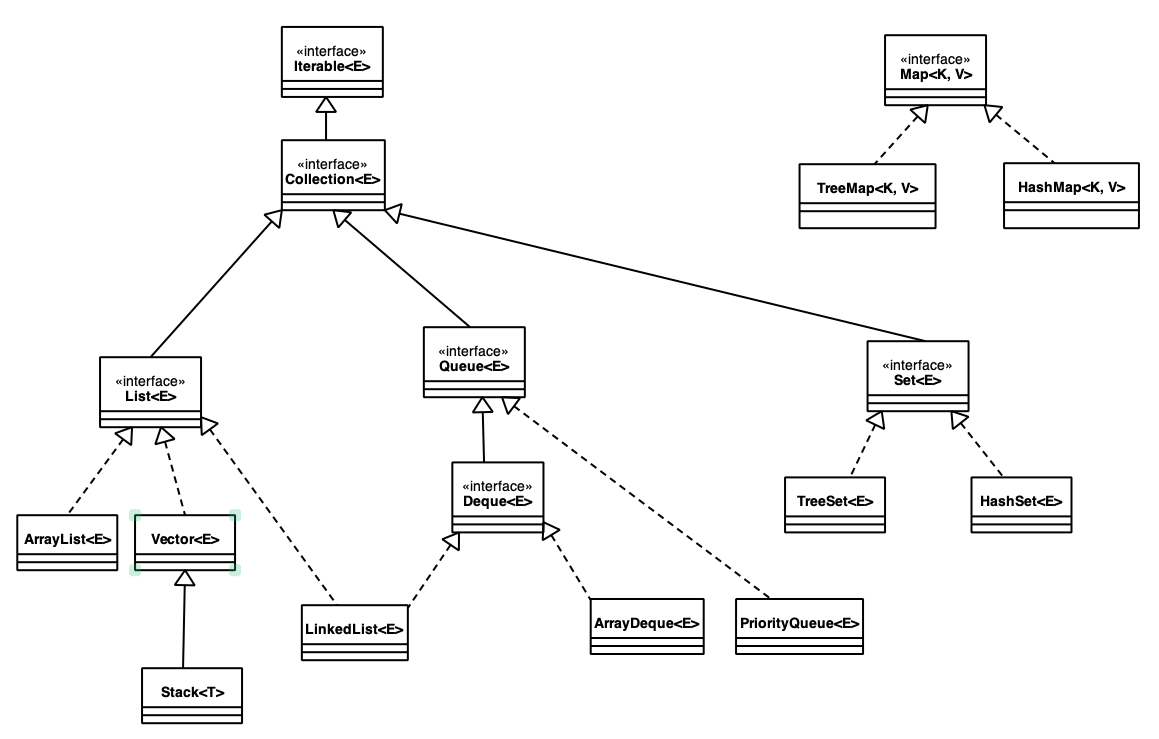
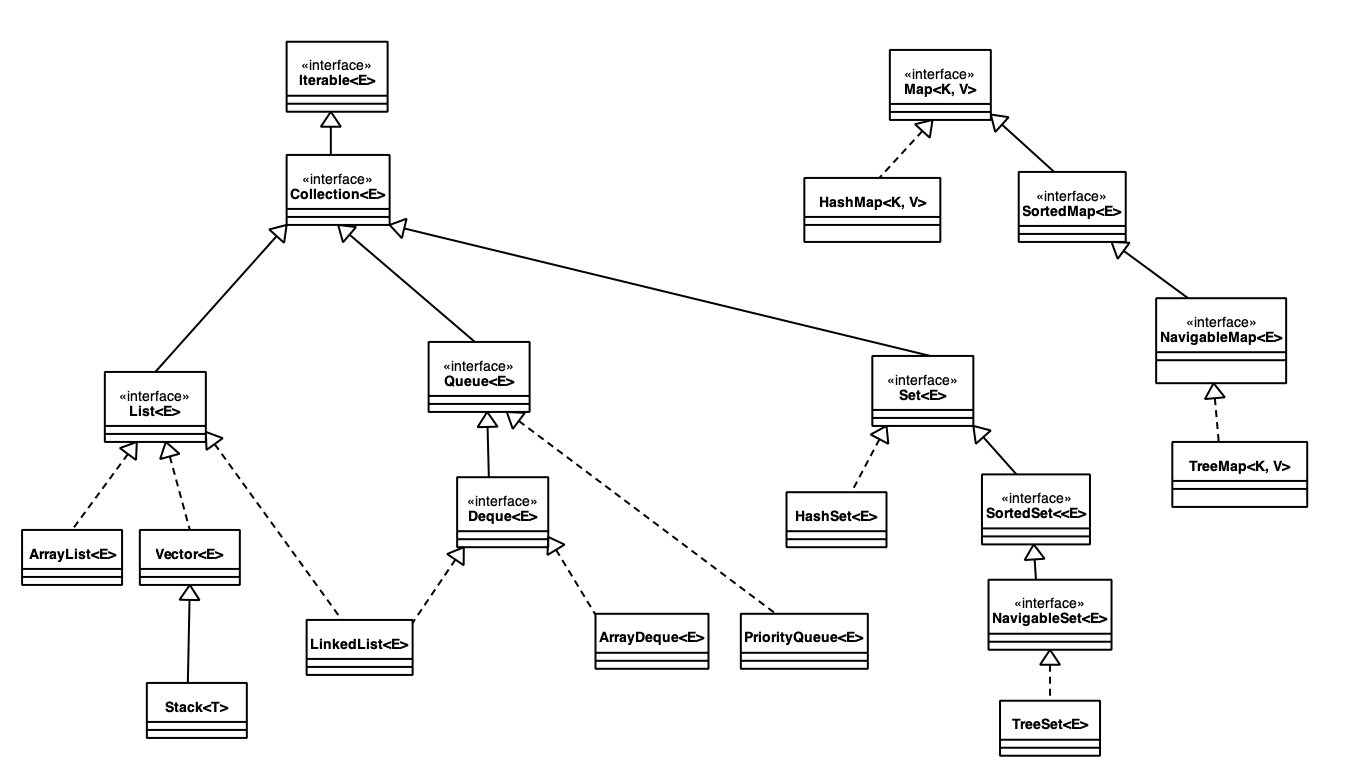
update

diff --git a/src/SampleCodes/Sample/src/main/java/org/csystem/app/Application.java b/src/SampleCodes/Sample/src/main/java/org/csystem/app/Application.java
@@ -16,11 +16,20 @@ import static java.util.stream.Collectors.groupingBy;
 
 @Slf4j
 class Application {
+    private static double calculateGrade(int midtermGrade, int finalGrade)
+    {
+        return midtermGrade * 0.4 + finalGrade * 0.6;
+    }
+
     private static Score groupingByKeyCallback(StudentInfo studentInfo)
     {
-        var grade = studentInfo.getMidtermGrade() * 0.4 + studentInfo.getFinalGrade() * 0.6;
+        return Score.findScoreByGrade(calculateGrade(studentInfo.getMidtermGrade(), studentInfo.getFinalGrade()));
+    }
 
-        return Score.findScoreByGrade(grade);
+    private static boolean filterSuccessCallback(StudentInfo studentInfo)
+    {
+        return Score.findScoreByGrade(calculateGrade(studentInfo.getMidtermGrade(),
+                studentInfo.getFinalGrade())).ordinal() <= Score.CC.ordinal();
     }
 
     public static void run(String[] args)
@@ -29,7 +38,8 @@ class Application {
             checkLengthEquals(args.length, 1, "Wrong number of arguments");
             var factory = StudentFactory.loadFromTextFile(Path.of(args[0]));
             var studentMap = factory.STUDENTS.stream()
-                            .collect(groupingBy(Application::groupingByKeyCallback, TreeMap::new, counting()));
+                    .filter(Application::filterSuccessCallback)
+                    .collect(groupingBy(Application::groupingByKeyCallback, TreeMap::new, counting()));
 
             studentMap.forEach((sc, c) -> Console.writeLine("%s: %s", sc, c));
         }

diff --git a/doc/OzetNotlar.md b/doc/OzetNotlar.md
@@ -10528,10 +10528,8 @@ Aşağıdaki enum sınıfını inceleyiniz
 ```java
 package org.csystem.util.datasource.student;  
   
-import java.util.Arrays;  
 import java.util.NavigableMap;  
 import java.util.TreeMap;  
-import java.util.stream.Collectors;  
   
 public enum Score {  
     AA(91, 100, 4.00),  
@@ -10546,7 +10544,8 @@ public enum Score {
     private static final NavigableMap<Integer, Score> ms_map = new TreeMap<>();  
   
     static {  
-        Arrays.stream(values()).forEach(s -> ms_map.put(s.minGrade, s));  
+        for (var s : values())  
+            ms_map.put(s.minGrade, s);  
     }  
   
     public final int minGrade, maxGrade;  
@@ -16503,7 +16502,81 @@ class Application {
 }
 ```
 
-Yukarıdaki örneklerde kullanılan Score enum sınıfının bir implementasyonu aşağıdaki gibidir
+
+Aşağıdaki örnekte `Mutlak Değerlendirme Tablosu` kullanılarak harf notuna göre başarılı öğrenci sayıları gruplanmıştır
+
+Mutlak Değerlendirme Tablosu
+
+| Puan Değerleri | Harfli Başarı Notu | Başarı Katsayısı |
+| -------------- | ------------------ | ---------------- |
+| 91-100         | AA                 | 4.00             |
+| 82-90          | BA                 | 3.50             |
+| 73-81          | BB                 | 3.00             |
+| 64-72          | CB                 | 2.50             |
+| 55-63          | CC                 | 2.00             |
+| 50-54          | DC                 | 1.50             |
+| 45-49          | DD                 | 1.00             |
+| 0-44           | FF                 | 0.00             |
+
+Geçme notu `midterm * 0.4 + final * 0.6` formülü ile hesaplanmıştır. Harf notu en az CC olan öğrenciler başarılı olabilmektedir.
+
+```java
+package org.csystem.app;  
+  
+import com.karandev.io.util.console.Console;  
+import lombok.extern.slf4j.Slf4j;  
+import org.csystem.util.datasource.factory.StudentFactory;  
+import org.csystem.util.datasource.student.Score;  
+import org.csystem.util.datasource.student.StudentInfo;  
+  
+import java.io.IOException;  
+import java.nio.file.Path;  
+import java.util.TreeMap;  
+  
+import static com.karandev.io.util.console.CommandLineArgs.checkLengthEquals;  
+import static java.util.stream.Collectors.counting;  
+import static java.util.stream.Collectors.groupingBy;  
+  
+@Slf4j  
+class Application {  
+    private static double calculateGrade(int midtermGrade, int finalGrade)  
+    {  
+        return midtermGrade * 0.4 + finalGrade * 0.6;  
+    }  
+  
+    private static Score groupingByKeyCallback(StudentInfo studentInfo)  
+    {  
+        return Score.findScoreByGrade(calculateGrade(studentInfo.getMidtermGrade(), studentInfo.getFinalGrade()));  
+    }  
+  
+    private static boolean filterSuccessCallback(StudentInfo studentInfo)  
+    {  
+        return Score.findScoreByGrade(calculateGrade(studentInfo.getMidtermGrade(),  
+                studentInfo.getFinalGrade())).ordinal() <= Score.CC.ordinal();  
+    }  
+  
+    public static void run(String[] args)  
+    {  
+        try {  
+            checkLengthEquals(args.length, 1, "Wrong number of arguments");  
+            var factory = StudentFactory.loadFromTextFile(Path.of(args[0]));  
+            var studentMap = factory.STUDENTS.stream()  
+                    .filter(Application::filterSuccessCallback)  
+                    .collect(groupingBy(Application::groupingByKeyCallback, TreeMap::new, counting()));  
+  
+            studentMap.forEach((sc, c) -> Console.writeLine("%s: %s", sc, c));  
+        }  
+        catch (IOException e) {  
+            Console.Error.writeLine("IO error occurred:%s", e.getMessage());  
+        }  
+        catch (Exception e) {  
+            Console.Error.writeLine("Error occurred :%s", e.getMessage());  
+        }  
+    }  
+}
+```
+
+Yukarıdaki örneklerde kullanılan Score enum sınıfının bir implementasyonu aşağıdaki gibidir. 
 
 ```java
 package org.csystem.util.datasource.student;  
@@ -16551,7 +16624,7 @@ public enum Score {
 }
 ```
 
-Buradaki Score enum sınıfının daha önce yazılmış aşağıdaki versiyonu daha iyidir.
+Aşağıdaki Score enum sınıfı, yukarıdakinden görece daha efektif yazılmıştır
 
 ```java
 package org.csystem.util.datasource.student;  
@@ -16559,7 +16632,6 @@ package org.csystem.util.datasource.student;
 import java.util.Arrays;  
 import java.util.NavigableMap;  
 import java.util.TreeMap;  
-import java.util.stream.Collectors;  
   
 public enum Score {  
     AA(91, 100, 4.00),  
@@ -16571,10 +16643,67 @@ public enum Score {
     DD(45, 49, 1.00),  
     FF(0, 44, 0.00);  
   
-    private static final NavigableMap<Integer, Score> ms_map = new TreeMap<>();  
+    private static final NavigableMap<Integer, Score> ms_map;  
+  
+    static {
+        ms_map = new TreeMap<>();  
+        Arrays.stream(values()).forEach(s -> ms_map.put(s.minGrade, s));  
+    }  
+  
+    public final int minGrade, maxGrade;  
+    public final double successValue;  
+  
+    Score(int minGrade, int maxGrade, double successValue)  
+    {  
+        this.minGrade = minGrade;  
+        this.maxGrade = maxGrade;  
+        this.successValue = successValue;  
+    }  
+  
+    public static Score findScoreByGrade(int grade)  
+    {  
+        if (grade < 0 || grade > 100)  
+            throw new IllegalArgumentException("Grade must be between 0 and 100");  
+  
+        return ms_map.get(ms_map.floorKey(grade));  
+    }  
+  
+    public static Score findScoreByGrade(double grade)  
+    {  
+        if (grade < 0 || grade > 100)  
+            throw new IllegalArgumentException("Grade must be between 0 and 100");  
+  
+        return findScoreByGrade((int)Math.round(grade));  
+    }  
+}
+```
+
+Buradaki Score enum sınıfında TreeMap elde edilmesi aşağıdaki gibi de yapılabilir. Score enum sınıfı açısından önemli olmasa da yukarıdaki elde etme biçiminin, bazı nesnelerin yaratılmasını engellendiğinden daha efektif olduğu söylenebilir
+
+```java
+package org.csystem.util.datasource.student;  
+  
+import java.util.Arrays;  
+import java.util.NavigableMap;  
+import java.util.TreeMap;  
+  
+import static java.util.stream.Collectors.toMap;  
+  
+public enum Score {  
+    AA(91, 100, 4.00),  
+    BA(82, 90, 3.50),  
+    BB(73, 81, 3.00),  
+    CB(64, 72, 2.50),  
+    CC(55, 63, 2.00),  
+    DC(50, 54, 1.50),  
+    DD(45, 49, 1.00),  
+    FF(0, 44, 0.00);  
+  
+    private static final NavigableMap<Integer, Score> ms_map;  
   
     static {  
-        Arrays.stream(values()).forEach(s -> ms_map.put(s.minGrade, s));  
+        ms_map = Arrays.stream(values())  
+                .collect(toMap(s -> s.minGrade, s -> s, (s1, s2) -> s1, TreeMap::new));
     }  
   
     public final int minGrade, maxGrade;  
